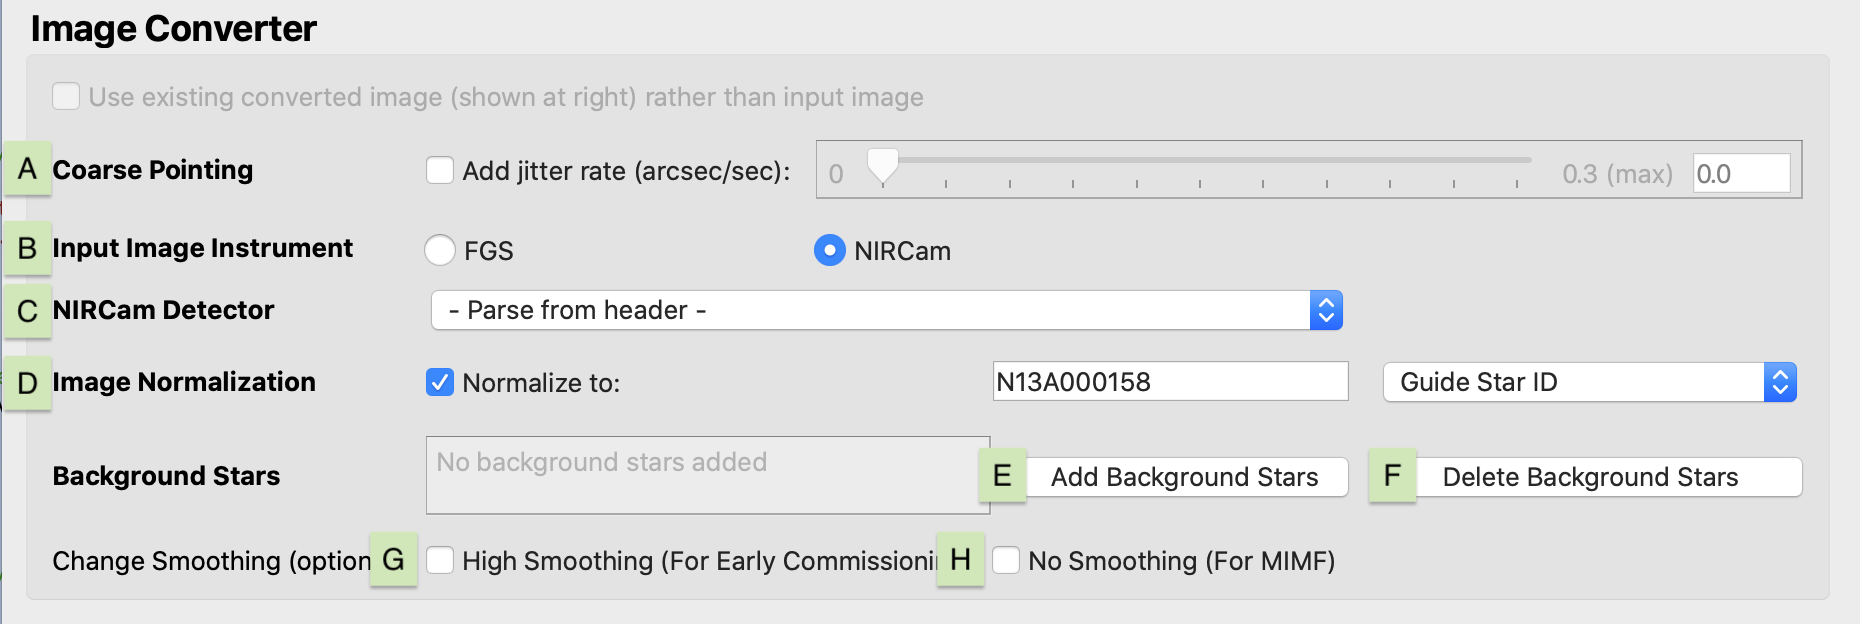
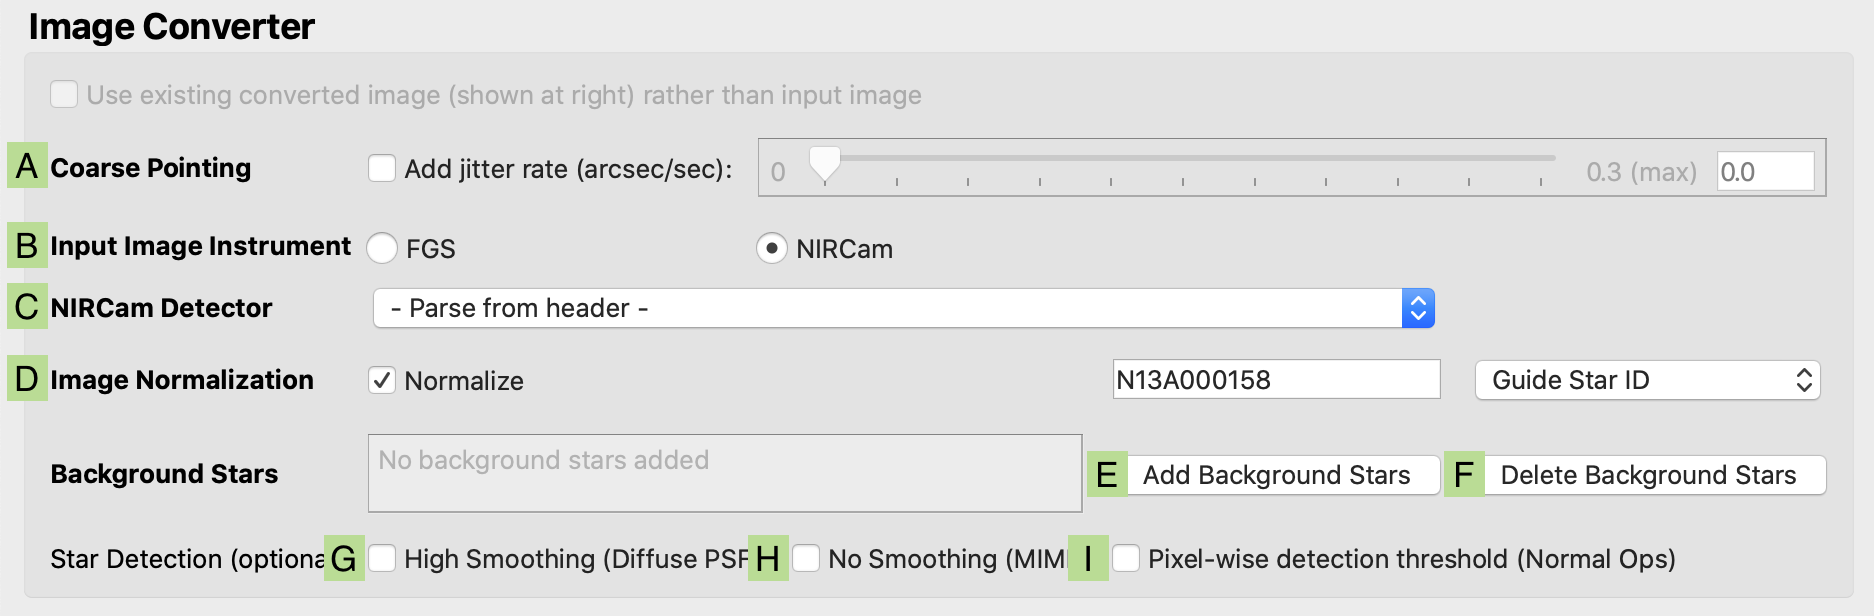
Add new checkbox to magic docs

diff --git a/docs/magic_user_guide/iii_determining_and_loading_the_input_image.md b/docs/magic_user_guide/iii_determining_and_loading_the_input_image.md
@@ -110,7 +110,11 @@ If MAGIC is given a NIRCam or FGS cal.fits image, it will have its distortion re
       3. Click **Done** to save and apply these selections, or click **Cancel** to close the window without updating the background star selections.
       4. Verify that the indicator shows that the correct number of background stars have been added.
       5. The background stars will remain loaded until the user clicks the **Delete Background Stars** button (*F*) in the main GUI. This means that these will stay as you move to the next observation which is helpful if the guide star or PA has not changed, however if either has changed, you will need to either delete the background stars or add new ones using the steps above.
-    5. (Optional) Inspect the input image and determine if your PSF(s) meet one of the two scenarios that requires a change to the smoothing technique. If you are working with early commissioning PSFs, check the **High Smoothing (For Early Commissioning)** box (*G*). If you are working with MIMF PSFs, check the **Low Smoothing (For MIMF)** box (*H*). For high smoothing, this flag widens the smoothing filter for diffuse images in early commissioning stages when the telescope is un-phased (If you are unsure if the PSFs are phased, consult the procedure’s information on your observation). For low smoothing, this flag applies very little smoothing to better find the bright knot on doughnut PSFs like in MIMF rather than finding the center of the PSF.
+    5. (Optional) Inspect the input image and determine if your PSF(s) meet one of the three scenarios that requires a change to how the code finds stars in the input image. If you are working with early commissioning, diffuse PSFs, check the **High Smoothing (Diffuse PSFs)** box (*G*). If you are working with MIMF PSFs, check the **Low Smoothing (MIMF)** box (*H*). If you are working with normal operations images, check the **Pixel-wise detection threshold (Normal Ops)** box (*I*).
+        - For the high smoothing option, the flag widens the smoothing filter for diffuse images in early commissioning stages when the telescope is un-phased (If you are unsure if the PSFs are phased, consult the procedure’s information on your observation).
+        - For the low smoothing option, the flag applies very little smoothing to better find the bright knot on doughnut PSFs like in MIMF rather than finding the center of the PSF.
+        - For the pixel-wise detection threshold option, the flag changes the threshold above which stars can be found to be calculated separately for each pixel of the array. This is tailored to normal operations PSFs and will likely not work well for commissioning images.
+        - Note: While we have found that these flags are best set for certain image types, if the user finds that the code isn't finding the locations of stars correctly, they can feel free to play around with these star detection options.
 
 
 #### Next
